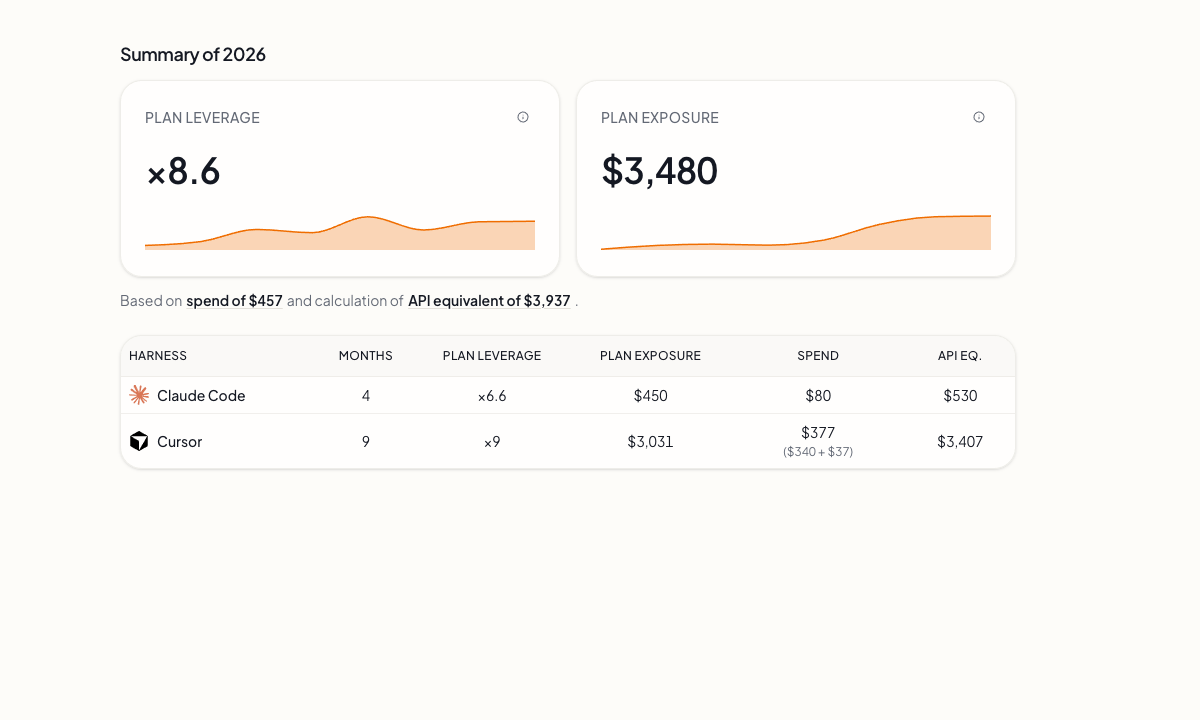
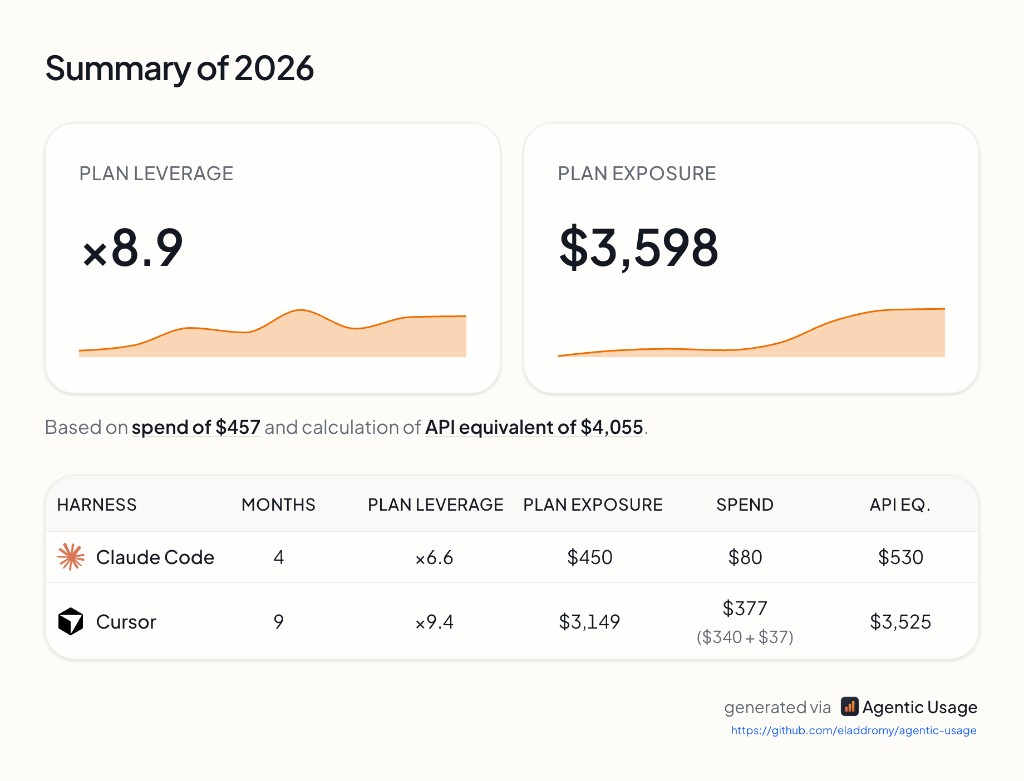
Update README hero screenshot to the year summary export.

diff --git a/README.md b/README.md
@@ -90,7 +90,7 @@ After setup, Claude logs re-index on navigation; Cursor spend comes from uploade
 
 ## Screenshots
 
-![Plan Leverage dashboard — monthly API-equivalent spend vs subscription cost](./readme-assets/demo-hero.png)
+![Plan Leverage — 2026 year summary with leverage, exposure, and per-harness breakdown](./readme-assets/demo-hero.png)
 
 ### Plan Leverage
 
